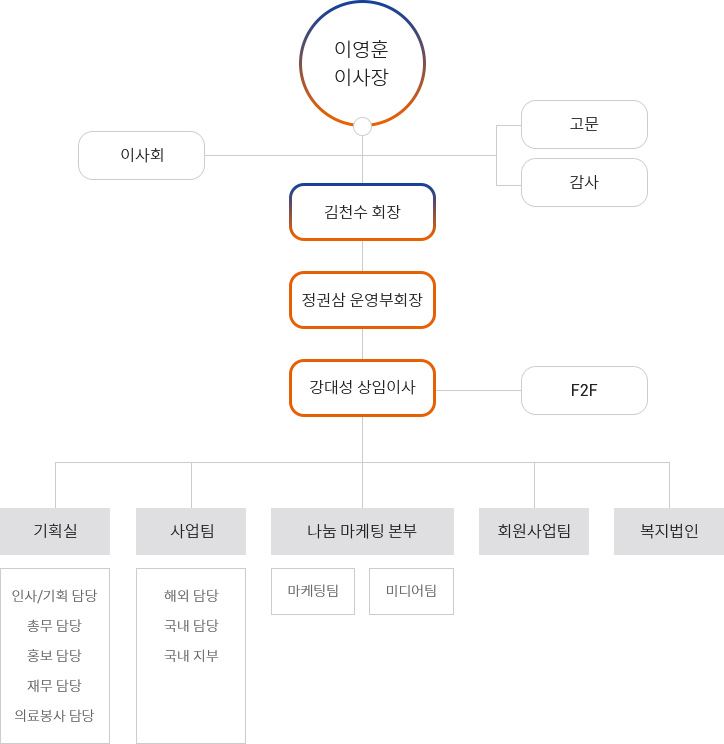
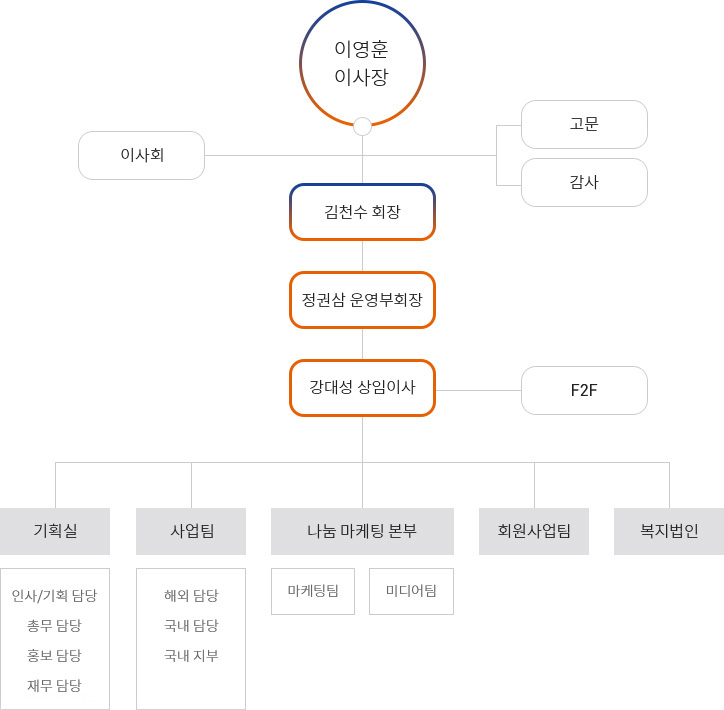
조직도 이미지 수정

diff --git a/introduce/directors.php b/introduce/directors.php
@@ -59,17 +59,20 @@
 									<ul>
 										<li><h2>김천수 회장</h2></li>
 										<li><h2>정권삼 운영부회장</h2></li>
-										<li><h2>강대성 상임이사(F2F)</h2></li>
+										<li>
+											<h2>강대성 상임이사</h2>
+											<ul>
+												<li>F2F</li>
+											</ul>
+										</li>
 										<li>
 											<ul>
 												<li>
-													<h3>기획실</h3>											
-													<ul>
+													<h3>기획실</h3>		<ul>
 														<li>인사/기획 담당</li>
 														<li>총무 담당</li>
 														<li>홍보 담당</li>
-														<li>재무담당</li>
-														<li>의료봉사 담당</li>
+														<li>재무 담당</li>
 													</ul>
 												</li>
 												<li>
